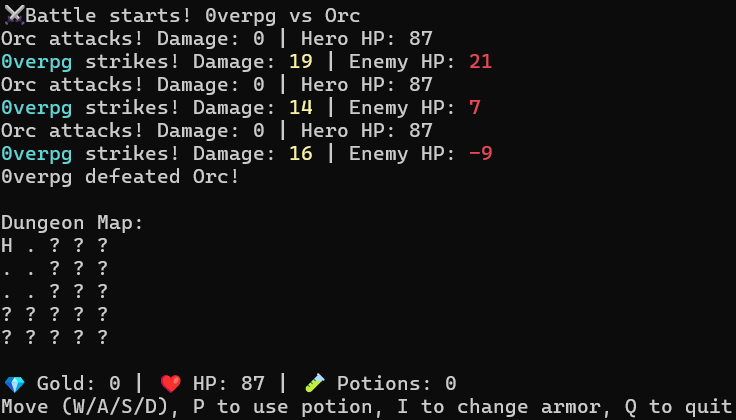
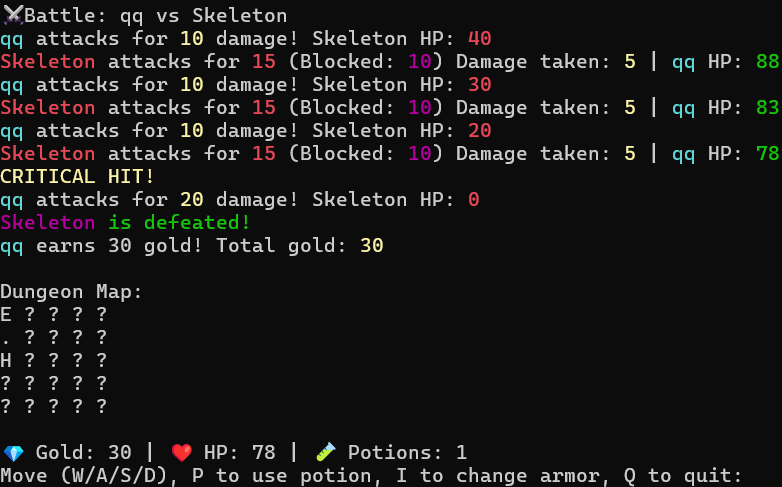
added more colours to the battle() function

diff --git a/main.cpp b/main.cpp
@@ -248,11 +248,11 @@ bool battle(Hero &hero, Enemy enemy, const Potion &potion) {
   while (hero.health > 0 && enemy.health > 0) {
     // Hero attacks
     int heroAttack = hero.baseAttack + hero.equippedWeapon.attack;
-    if(std::rand() % 100 < 20) { heroAttack *= 2; std::cout << "CRITICAL HIT!\n"; }
+    if(std::rand() % 100 < 20) { heroAttack *= 2; std::cout << "\033[1;33m" <<"CRITICAL HIT!" << "\033[0;0m" << "\n"; }
     enemy.health -= heroAttack;
     std::cout << "\033[1;36m" << hero.name << "\033[0;0m" << " attacks for " << "\033[1;33m" << heroAttack << "\033[0;0m" <<" damage! " << enemy.name << " HP: " << "\033[1;31m" << std::max(0, enemy.health) << "\033[0;0m" << "\n";
     if (enemy.health <= 0) {
-      std::cout << enemy.name << " is defeated!\n";
+      std::cout << "\033[1;35m" << enemy.name << "\033[0;0m" << "\033[1;32m" << " is defeated!" << "\033[0;0m" << "\n";
       hero.gold += 30;
       std::cout << "\033[1;36m" << hero.name << "\033[0;0m" << " earns 30 gold! Total gold: " << "\033[1;33m" << hero.gold << "\033[0;0m" << "\n";
       // Random loot drop
@@ -266,7 +266,7 @@ bool battle(Hero &hero, Enemy enemy, const Potion &potion) {
     if (damage < 0) damage = 0;
     if(std::rand() % 100 < 15) { std::cout << hero.name << " dodged!\n"; damage = 0; }
     hero.health -= damage;
-    std::cout << enemy.name << " attacks for " << enemy.attack << " (Blocked: " << totalDefense << ") Damage taken: " << damage << " | " << hero.name << " HP: " << std::max(0, hero.health) << "\n";
+    std::cout << "\033[1;31m" << enemy.name << "\033[0;0m" << " attacks for " << "\033[1;31m" << enemy.attack << "\033[0;0m" << " (Blocked: " << "\033[1;35m" << totalDefense << "\033[0;0m" << ") Damage taken: " << "\033[1;33m" << damage << "\033[0;0m" << " | " << "\033[1;36m" << hero.name << "\033[0;0m" << " HP: " << "\033[1;32m" << std::max(0, hero.health) << "\033[0;0m" << "\n";
     // Auto-use potion if low HP
     if (hero.health <= 30 && hero.potions > 0) { std::cout << "⚠ Low HP! Auto-using potion...\n"; usePotion(hero, potion); }
     if (hero.health <= 0) { std::cout << hero.name << " has fallen...\n"; return false; }
